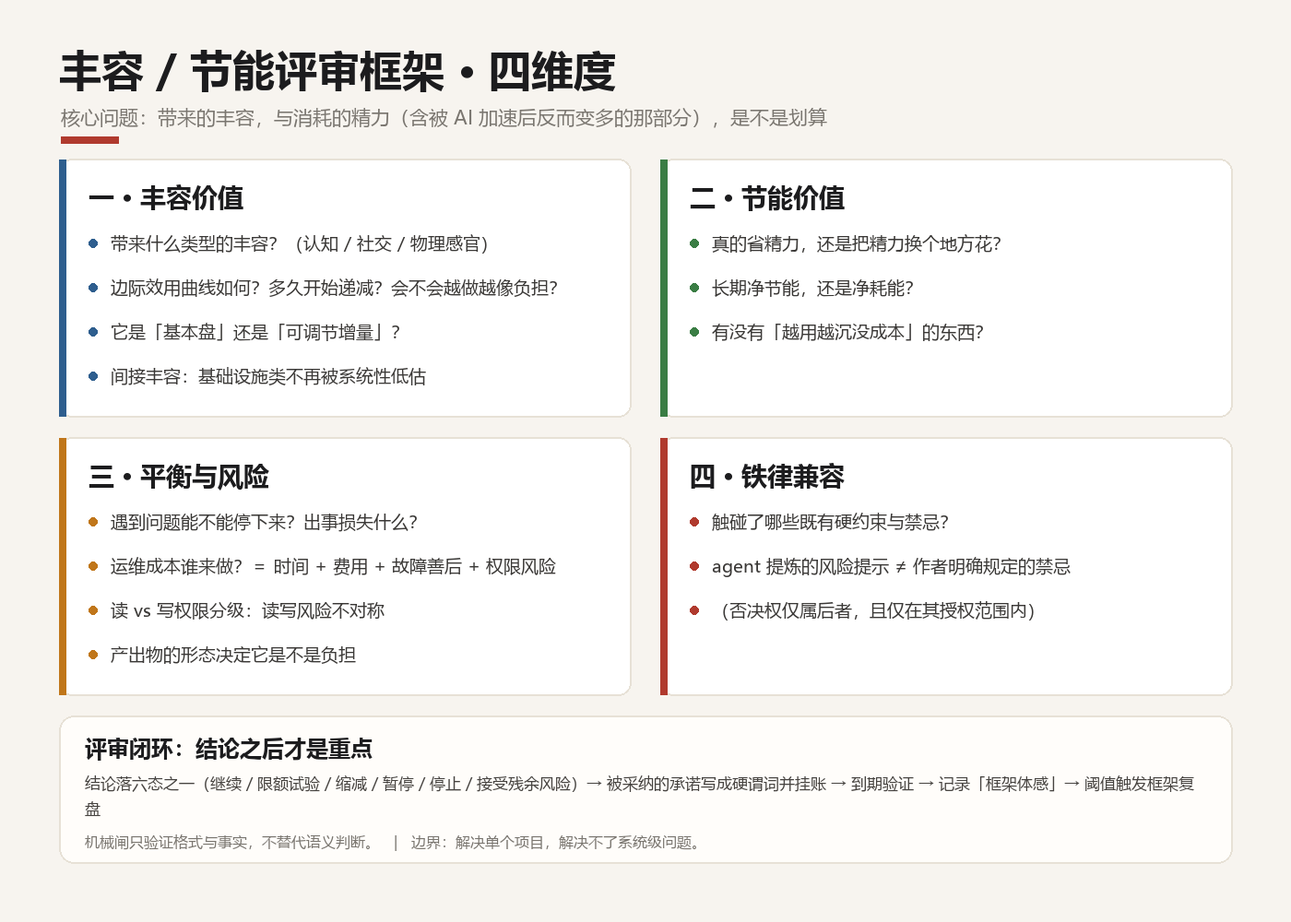
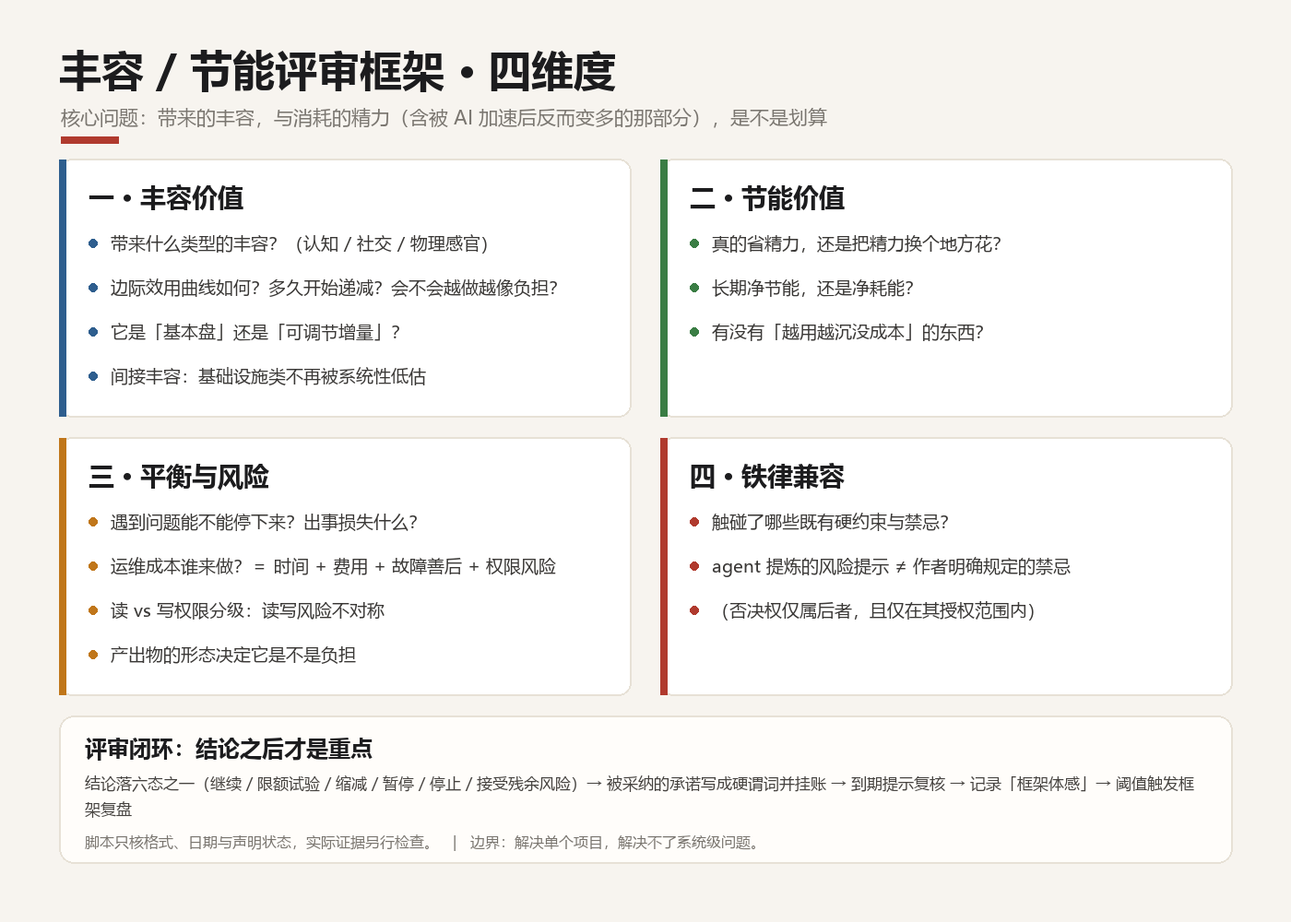
v1.13.1 修订：修正闸误判并统一证据核验边界

Changed region(s): [[0.0614, 0.868, 0.5836, 0.93], [0.6757, 0.837, 0.9214, 0.868]]

diff --git a/skill/scripts/fengneng_review_followup.py b/skill/scripts/fengneng_review_followup.py
@@ -6,7 +6,8 @@
 
 基于控制论闭环模型（setpoint=评审条件硬谓词、sensor=本脚本）：
   - 只有「被采纳的承诺」才应写成条件（v1.7）
-  - Type A（客观可检查）由本脚本自动验证；Type A 证据不得替代 Type B 价值判断
+  - 本脚本只读取 Type A/B 条件的截止日期与显式状态；实际证据须另行执行对应检查
+  - Type A 证据不得替代 Type B 价值判断
   - Type B（需人类判断）到期只提醒作者判断
   - Surface 动作：到期未完成时停止+报告+等指示，不自动重试/降级；
     作者的合法处置含延期/放弃/修正条件/停止追踪（停止追踪=正式结束）
@@ -45,7 +46,8 @@ DEFAULT_LOG = Path.cwd() / "REVIEW_LOG.md"
 PROJECT_ROOT = None
 
 REVIEW_HEADER = re.compile(r"^#{2,3}\s+评审[：:]", re.M)
-CONDITIONAL_MARK = "⚠"
+CONCLUSION_LINE = re.compile(r"\*\*结论\*\*(?:[（(][^）)]*[）)])?[：:][ \t]*([^\n]*)")
+CONDITIONAL_CONCLUSION = re.compile(r"^⚠\s*有条件过(?=$|[\s（(，,。；;])")
 
 # 新建目录未评审检测的豁免名单：这些一级目录不是"个人项目/事务"，不需要丰容评审
 #  - 系统/工具目录：.netlify/.qoder/.wrangler/.agents/.private 等
@@ -112,6 +114,12 @@ def split_reviews(text):
     return reviews
 
 
+def is_conditional_review(body):
+    """只按结论字段识别有条件过；正文其他位置的 ⚠ 不改变评审结论。"""
+    match = CONCLUSION_LINE.search(body)
+    return bool(match and CONDITIONAL_CONCLUSION.match(match.group(1).strip()))
+
+
 def parse_conditions(body):
     """从评审条目中解析条件列表，返回 [(condition_id, type, deadline, desc, done)]。"""
     conditions = []
@@ -137,7 +145,7 @@ def check_review(header, body, today):
     warns = []
     infos = []
 
-    if CONDITIONAL_MARK not in body:
+    if not is_conditional_review(body):
         return blocks, warns, infos
 
     # 闭环状态（v1.7 复核修订：条目级终态控制跟踪——stopped/closed/not-applicable ⇒ 整条不再追踪，
@@ -379,7 +387,7 @@ def run(log_path, today=None, project_root=None):
         )
 
     for header, body in reviews:
-        if CONDITIONAL_MARK not in body:
+        if not is_conditional_review(body):
             continue
         conditional_count += 1
         b, w, i = check_review(header, body, today)
@@ -538,6 +546,17 @@ def selftest():
     b, w, i, cnt = run_fixture(fixture4, today)
     if cnt != 0:
         failures.append(f"夹具4：期望0个有条件过，实际{cnt}")
+
+    # 夹具4b：结论为✅过，建议中的⚠和过期条件文本不得把条目改成有条件过
+    fixture4b = """### 评审：通过但有提醒（2026-10-14）
+
+**结论**：✅ 过
+**建议**：⚠ 这只是提醒，不是评审条件
+- C1（Type A，截止2026-10-10）：不应被追踪的历史文本
+"""
+    b, w, i, cnt = run_fixture(fixture4b, today)
+    if cnt != 0 or b or w or i:
+        failures.append(f"夹具4b：期望0个有条件过且无告警，实际cnt={cnt} b={b} w={w} i={i}")
 
     # 夹具5：旧格式（有条件过但无硬谓词）→ WARN
     fixture5 = """### 评审：旧格式项目（2026-10-12）
@@ -780,7 +799,7 @@ def selftest():
         for f in failures:
             print(f"  - {f}")
         return 1
-    print(f"✅ 自检通过（14项条件夹具 + 4组复盘触发夹具全部通过）")
+    print("✅ 自检通过（15项条件夹具 + 4组复盘触发夹具全部通过）")
     return 0
 
 
@@ -790,7 +809,7 @@ def run_fixture(text, today):
     all_blocks, all_warns, all_infos = [], [], []
     conditional_count = 0
     for header, body in reviews:
-        if CONDITIONAL_MARK not in body:
+        if not is_conditional_review(body):
             continue
         conditional_count += 1
         b, w, i = check_review(header, body, today)
@@ -866,13 +885,13 @@ def main():
         print()
 
     if not blocks and not warns and not infos:
-        print("✅ 所有评审条件/待办均已完成或无截止日期约束")
+        print("✅ 没有需要提示的到期条件/待办")
 
     if blocks:
-        print(f"❌ 有 {len(blocks)} 个条件/待办已过期未完成 → 退出码1（报告级标红，不阻断受控动作；需 Surface 给作者）")
+        print(f"❌ 有 {len(blocks)} 个条件/待办已到期且未声明完成或停止 → 退出码1（提示另行核证据，不阻断受控动作）")
         sys.exit(1)
     else:
-        print("✅ 无过期未完成条件/待办 → 退出码0")
+        print("✅ 无已到期且未声明完成或停止的条件/待办 → 退出码0")
         sys.exit(0)
 
 

diff --git a/scripts/gen_images.py b/scripts/gen_images.py
@@ -253,7 +253,7 @@ def gen_matrix(out):
     y2 = by + 62
     for ln in wrap(
         d,
-        "结论落六态之一（继续 / 限额试验 / 缩减 / 暂停 / 停止 / 接受残余风险）→ 被采纳的承诺写成硬谓词并挂账 → 到期验证 → 记录「框架体感」→ 阈值触发框架复盘",
+        "结论落六态之一（继续 / 限额试验 / 缩减 / 暂停 / 停止 / 接受残余风险）→ 被采纳的承诺写成硬谓词并挂账 → 到期提示复核 → 记录「框架体感」→ 阈值触发框架复盘",
         font(17),
         W - 190,
     ):
@@ -261,7 +261,7 @@ def gen_matrix(out):
         y2 += 28
     d.text(
         (92, y2 + 8),
-        "机械闸只验证格式与事实，不替代语义判断。   |   边界：解决单个项目，解决不了系统级问题。",
+        "脚本只核格式、日期与声明状态，实际证据另行检查。   |   边界：解决单个项目，解决不了系统级问题。",
         font=font(16),
         fill=SUB,
     )

diff --git a/skill/SKILL.md b/skill/SKILL.md
@@ -2,7 +2,7 @@
 name: fengneng-review
 description: >
   丰容/节能项目评审框架（v1.13，使用中迭代）。触发词：丰容评审、新项目过一下、这个项目要不要做、项目评审、丰能评审。
-  新开个人项目或重大功能时过四维度检查清单（丰容价值/节能价值/平衡与风险/铁律兼容），评审前先做项目类型判断+现有产物核查+业界最佳实践核查（人-系统/人-AI协作二分仅作检索线索），输出过/有条件过/不过+矩阵定位+风险点+建议（强建议须带因果链）。评审的终点=当前决策有充分证据（六态：继续/限额试验/缩减/暂停/停止/接受残余风险）；仅被采纳的承诺写成硬谓词挂待办追踪库跟踪，机械闸定期验证（SURFACE报告级不阻断受控动作），到期Surface等作者拍板（含停止追踪合法终态）。四条铁律=agent提炼护栏，作场景化风险提示，否决权仅属作者明确禁忌的授权范围。每次评审后记录框架体感用于迭代，复盘触发（新增≥5或同类体感≥2条）由机械闸判定。
+  新开个人项目或重大功能时过四维度检查清单（丰容价值/节能价值/平衡与风险/铁律兼容），评审前先做项目类型判断+现有产物核查+业界最佳实践核查（人-系统/人-AI协作二分仅作检索线索），输出过/有条件过/不过+矩阵定位+风险点+建议（强建议须带因果链）。评审的终点=当前决策有充分证据（六态：继续/限额试验/缩减/暂停/停止/接受残余风险）；仅被采纳的承诺写成硬谓词挂待办追踪库跟踪，配套脚本定期扫描日期与声明状态（SURFACE报告级不阻断受控动作），实际证据另行核验，到期Surface等作者拍板（含停止追踪合法终态）。四条铁律=agent提炼护栏，作场景化风险提示，否决权仅属作者明确禁忌的授权范围。每次评审后记录框架体感用于迭代，复盘触发（新增≥5或同类体感≥2条）由机械闸判定。
 ---
 
 # 丰容/节能项目评审框架
@@ -121,7 +121,7 @@ description: >
 >
 > 依据：某字幕生产场景的评审体感——"不做真分词"不是"没做完"，而是"够用"的正式终态；若只有"过/不过"两分法，这种状态会被迫写成"有条件过 + 造一条待办"，反而制造假债。
 
-> 矩阵定位是四维度评分的快速索引——用户一眼看到项目落哪个象限，比读四行维度评分效率高。完整矩阵可视化 = `docs/丰容节能矩阵.html`（2×2+1结构，中间区超3个项目时考虑升级3×3）。
+> 矩阵定位是四维度评分的快速索引——用户一眼看到项目落哪个象限，比读四行维度评分效率高。随包图示见 [`../docs/four-dimensions.png`](../docs/four-dimensions.png)；矩阵只作导航，不作结论依据。
 
 ### 建议的三档强度（v1.1 明确）
 
@@ -149,7 +149,7 @@ description: >
 3. **业界最佳实践核查（强制步骤，v1.4 新增，v1.5 扩展）**：评审中涉及**量化阈值、指标选择、方法论选型、闭环机制设计**时，先查业界有没有成熟的最佳实践——
    - **先判断场景属于哪种模式**（v1.5 新增，两种模式的最佳实践不同，不能混用）：
      - **人-系统模式**：人评审、人追踪、人验证（如安全审计POA&M、技术债务管理、项目管理）。最佳实践来源：NIST/CMS POA&M、软件工程技术债务管理、PMI项目管理。核心设计前提=防止人偷懒/忘记，所以流程重、需要named owner和固定节奏。
-     - **人-AI协作模式**：AI评审、AI追踪、机械闸验证、人只做决策（如本框架的评审闭环）。最佳实践来源：agent loop 验证、Claude Code/Codex 社区实践。核心设计前提=防止AI自己骗自己（maker≠checker），所以需要独立验证者和机器可检查的成功条件。
+     - **人-AI协作模式**：AI评审、AI追踪、明确的机械检查、人只做决策（如本框架的评审闭环）。最佳实践来源：agent loop 验证、Claude Code/Codex 社区实践。核心设计前提=防止AI自己骗自己（maker≠checker），所以需要独立验证者和机器可检查的成功条件。
      - ⚠ **v1.7：该二分是检索线索，不是穷尽分类**——两类风险（人会忘/会偷懒、AI 会自证）可同时存在于同一机制；引用时按风险点分别取径，不按标签站队。v1.5 所引"Loop Engineering 共识"表述未经独立核验，已弱化，不作权威依据。
    - 有公信力 benchmark / 行业标准 / 学术研究结论 → 直接拿过来用，注明来源和适用条件
    - 没有 → 从仓内历史数据中提炼（参考「参数基准表」），或先开数据收集再定阈值，**不现场拍脑袋**
@@ -185,7 +185,7 @@ description: >
 | Setpoint（目标值） | 评审结论中被采纳的承诺——写成硬谓词（Type A 机器可检查；Type B 有明确评价对象和证据形式的人类判断） |
 | Controller（控制器） | AI（主笔 agent），执行后续动作 |
 | Plant（被控对象） | 被评审的项目/机制 |
-| Sensor+Comparator（传感器+比较器） | 机械闸（`scripts/fengneng_review_followup.py`），验证条件是否满足 |
+| Sensor+Comparator（传感器+比较器） | 配套脚本读取条件的截止日期与显式状态，提示该复核什么；实际证据由对应检查或人另行核验 |
 | 收敛条件 | 六态终态决策 → 归档——继续/限额试验 = 承诺落地后归档；停止/缩减/暂停/接受残余风险可随时结束未履行承诺，无需先全部落地（不一律重评） |
 
 ### 闭环的两个必要条件（来自 Loop Engineering）
@@ -199,7 +199,7 @@ description: >
 - **截止日期**（YYYY-MM-DD，不能是"尽快""以后"；禁止"持续项"式无截止条件——那是开放式跟踪的坏样本）
 - **可检查的完成标准**（Type A：文件存在否、脚本跑通否、待办追踪状态否——必须能用 grep/ls/exit code 判定；Type B：写明**评价对象与证据形式**，由人判定，不伪装成机器谓词）。写法 = **语义 + 具体定位器**，**禁裸字符串 grep**（反面教材：某交易域 SOP C1 的"无操作日不推送"字面串——实现换位置即出现"闸查不到、实质已达成"的假 BLOCK/假核销，评审记录台账 2026-10-15 交易条目已留痕）
 - **「证明什么」标注**（v1.7 新增）：本条件证明的是实现存在/运行事实，还是结果/价值；Type A 证据不得替代 Type B 结论
-- **验证方式**（Type A 机械闸自动查 / Type B 需作者判断）
+- **验证方式**（Type A 须写明要执行的机械检查并由对应工具实际运行 / Type B 需作者判断；配套追踪脚本只核日期与声明状态）
 
 反面例子（不可检查）：
 - "改善用户体验"
@@ -215,7 +215,7 @@ description: >
 
 | 类型 | 定义 | 验证方式 |
 |---|---|---|
-| **Type A** | 完全可自动化的机械检查（文件存在、脚本exit code、git提交频率、待办追踪状态、截止日期是否到期） | 机械闸自动验证，不需要人 |
+| **Type A** | 可交给明确工具执行的机械检查（文件存在、脚本 exit code、Git 提交数、待办状态、日期等） | 由条件指定的检查实际执行；配套追踪脚本本身只核日期与声明状态，不代替这些检查 |
 | **Type B** | 人类判断门（项目丰容价值是否真的提升、是否真的没有退化、主观质量判断） | 必须作者批准，AI不能自己关账 |
 
 闭环的工作 = **自动化 Type A 到底 + 可靠地把 Type B 路由给作者**。⚠ Type A 全绿 ≠ 项目达标——Type A 只验实现/运行事实，价值判断永远在 Type B 侧。**单次成功与可靠性分离（v1.13）**：单次成功只证明发生过；概率性或无人值守机制需要可靠性结论时，须重复运行并报告次数 n 与失败数，样本不足标「待验证」，不写「稳定/可靠」。次数按风险与成本定，不设统一 k，不强制统计模型。
@@ -232,10 +232,10 @@ description: >
     ↓
 仅「被采纳的承诺」改写为硬谓词 → 挂 TRACKING.md（待办追踪）（同一真实决策复用一个记录，条件按风险合并，不一条件一文件）
     ↓
-机械闸定期扫描（接入 （收尾体检脚本，本包未附带） §5）
-    ├─ 条件未到期 → 静默，不打扰
-    ├─ 条件到期且满足 → 标记待确认（不自动归档）
-    ├─ 条件到期未完成 → Surface（报告级，见下）
+配套脚本定期扫描日期与显式状态（接入 （收尾体检脚本，本包未附带） §5）
+    ├─ 条件未到期且未声明终态 → 静默，不打扰
+    ├─ 已显式声明完成/停止 → 记录状态，不把声明当作证据已核
+    ├─ 已到期且未声明完成/停止 → Surface，提示另行核证据（报告级，见下）
     └─ Type B 条件到期 → 提醒作者判断
     ↓
 终态（六选一）：继续 / 限额试验 / 缩减 / 暂停 / 停止（显式停止追踪 = 合法结束）/ 接受残余风险
@@ -245,9 +245,9 @@ description: >
 归档（待办追踪库移入 archive 区，评审记录台账追加记录；停止/缩减/接受残余风险均为正式归档理由）
 ```
 
-### Surface 动作（条件到期未完成时）
+### Surface 动作（条件到期且未声明完成或停止时）
 
-当机械闸发现条件到期未完成时，AI 的动作有精确名称：**Surface**——
+当配套脚本发现条件已到期、且未显式声明完成或停止时，AI 的动作有精确名称：**Surface**——它提示该核证据了，不自行断言条件尚未满足：
 - 停止当前循环
 - 发出简短情况描述（哪个条件、到期多久、尝试过什么、当前状态）
 - **等待作者指示**

diff --git a/.github/release-notes/v1.13.1.md b/.github/release-notes/v1.13.1.md
@@ -1,0 +1,53 @@
+# v1.13.1 · 丰容/节能评审框架
+
+> **不是给答案，是帮你把依据和未知分开。**
+>
+> 规则版仍为 v1.13；v1.13.1 是公开包的代码、文档与发布修订号。
+
+## 这次修订包含什么
+
+- 修复结论字段的前缀误判：`✅ 过去`、`❌ 不过去` 不再被当成合法结论。
+- 闭环扫描只按结论字段识别“有条件过”，不再被正文其他位置的警示符号误导。
+- 两条脚本补充正反之例与真实 CLI 端到端自检，并消除 Python 转义警告。
+- 统一文档与脚本的真实能力边界：配套脚本只核格式、日期与显式声明状态；实际证据另行检查，价值判断仍由人做。
+- 修正本地图示链接、原创性历史注记、规则版与公开发布版的区分，以及 Release 更新的覆盖范围说明。
+
+## 框架包含什么
+
+| | 内容 |
+|---|---|
+| **给 agent 的** | `skill/`：SKILL.md、设计沿革与两支配套检查脚本 |
+| **给人的** | `human/为什么需要这套框架.md`：来历、四维度、评审闭环与边界 |
+| **图示** | `docs/`：封面、四维度、评审闭环、证据纪律 |
+| **沿革** | `CHANGELOG.md` 与 `skill/references/HISTORY.md` |
+
+## 四维度与闭环
+
+1. **丰容价值**：带来什么认知、社交或物理感官的丰富度？边际效用如何？
+2. **节能价值**：长期净节能还是净耗能？运维、纠错、监督与学习成本是否计入？
+3. **平衡与风险**：能否暂停或退出？读写权限、内容敏感度与证据验证如何安排？
+4. **铁律兼容**：哪些是场景化风险提示，哪些才是作者明确规定的禁忌？
+
+评审结论落在继续、限额试验、缩减、暂停、停止或接受残余风险之一；只有被采纳的承诺才进入追踪。
+
+> **脚本边界**：配套脚本核对字段格式、截止日期和显式状态标记，不执行条件所描述的证据检查，也不判断项目价值。“该复核了”不等于“已经核过”。
+
+## 怎么用
+
+```bash
+git clone https://github.com/yunfy1990/fengneng-review.git
+cp -r fengneng-review/skill ~/.claude/skills/fengneng-review
+python -X utf8 ~/.claude/skills/fengneng-review/scripts/fengneng_review_lint.py --selftest
+python -X utf8 ~/.claude/skills/fengneng-review/scripts/fengneng_review_followup.py --selftest
+```
+
+人类读者可直接阅读 `human/为什么需要这套框架.md`，按四个维度检查一个具体项目。
+
+## 边界与来源
+
+- 适用于单个项目、产品或重大功能；不提供系统级问题的判据。
+- 框架只产出判断与风险提示，不产出授权。
+- 本框架是在既有材料之上的组合与改造；未找到同一完整组合，不等于首创。
+- 历史脱敏核查只覆盖当前可达历史与已列明的检查规则；旧下载、缓存、fork 或他人已保存副本不在撤回能力之内。
+
+Apache License 2.0。专利授权仅覆盖贡献者可许可的特定权利，不等于对第三方专利的全面免责。

diff --git a/README.md b/README.md
@@ -4,7 +4,7 @@
 
 <p align="center">
   <a href="LICENSE"><img src="https://img.shields.io/badge/license-Apache--2.0-blue.svg" alt="License Apache-2.0"></a>
-  <img src="https://img.shields.io/badge/version-v1.13-crimson.svg" alt="version v1.13">
+  <img src="https://img.shields.io/badge/rules-v1.13-crimson.svg" alt="rules v1.13">
   <img src="https://img.shields.io/badge/entry-human%20%2B%20agent-slategray.svg" alt="human + agent">
   <img src="https://img.shields.io/badge/i18n-%E4%B8%AD%E6%96%87-lightgrey.svg" alt="中文">
   <a href="CHANGELOG.md"><img src="https://img.shields.io/badge/14%20versions-chocolate.svg" alt="14 versions"></a>
@@ -15,6 +15,8 @@
 ---
 
 # fengneng-review
+
+> 规则版：**v1.13**｜公开包修订：**v1.13.1**（代码、文档与发布层修复，不改变规则问法）
 
 > **不是给答案，是帮你把依据和未知分开。**
 >
@@ -73,12 +75,12 @@ python -X utf8 ~/.claude/skills/fengneng-review/scripts/fengneng_review_lint.py 
 1. 结论必须落在六态之一：**继续 / 限额试验 / 缩减 / 暂停 / 停止 / 接受残余风险**；
 2. 只有**被采纳的承诺**才写成**硬谓词**（截止日 + 可检查的完成标准 + 验证方式 + "证明什么"标注）并挂账追踪；
 3. 每次评审记录**框架体感**，累计到阈值触发**框架复盘**，复盘只改问法、不改结论；
-4. **机械闸只验证格式与事实，不替代语义判断**。
+4. **配套脚本只核格式、日期与声明状态，不替代证据核验与价值判断**。
 
-> ⚠ **机械闸的能力边界（请照实理解）**：配套的两个脚本**只做格式与状态判定** ——
-> 格式闸核对字段是否齐备、结论是否在档位内；闭环闸读取**截止日期与状态标记**，判断条件是否逾期。
-> **它们不执行条件所要求的脚本、不核对文件事实、不验证价值判断。**
-> 「条件已到期」只意味着**该核了**，不意味着**核过了**；价值结论仍由人给。
+> ⚠ **机械闸的能力边界（请照实理解）**：格式闸核对字段是否齐备、结论是否在档位内；
+> 闭环闸读取**截止日期与显式状态标记**，判断是否该复核。
+> **它们不执行条件所要求的检查、不核对文件内容或运行结果、不验证价值判断。**
+> 「条件已到期」只意味着**该核了**，不意味着**核过了**；实际证据须另行检查，价值结论仍由人给。
 
 ---
 

diff --git a/skill/references/HISTORY.md b/skill/references/HISTORY.md
@@ -31,4 +31,4 @@
 - v1.3（2026-10-12）：17条评审首次框架复盘后落地6项改进——①新增第0步「项目类型前置判断」（机制/工具/内容/事务/元项目/已完成，不同类型维度权重不同）；②维度一新增「间接丰容」问法（基础设施类不再被系统性低估）；③维度二新增「长期净节能」问法（运动/学习类短期耗能长期节能）；④维度三运维成本加「谁来做」、退出策略/时间预算按类型调整；⑤现有产物核查从评审流程扩展为**所有"提议做新东西"场景的前置动作**；⑥维度四机制类项目权重升高至一票否决级。经A/B验证，17个项目全部有正向影响，2个矩阵定位移动（音频录制/工作室运营从苦修区→中间区）。
 - v1.2（2026-10-12）：使用流程新增第2步「现有产物核查（强制步骤）」——评审前必须先搜 scripts/文档/待办追踪库/calendar/CHANGELOG/实验登记表，把已存在的相关产物列出来，避免把已落地的东西当成待办；输出格式新增「现有产物」字段。缘起：批量评审时把已存在的 voice_metrics_report.py 和 待办追踪库 182 当成了待办，经作者提醒才发现。
 - v1.1（2026-10-12）：①新增「参数基准表」——评审中量化阈值从仓内历史提炼，不现场拍脑袋；②明确建议三档强度（弱/中/强），强建议必须带一句因果链理由，不允许只有结论没有推理。
-- v1（2026-10-12）：初版，四维度=丰容价值/节能价值/平衡与风险/铁律兼容；业界调研确认无成熟现成框架
+- v1（2026-10-12）：初版，四维度=丰容价值/节能价值/平衡与风险/铁律兼容；当时记录为“业界调研确认无成熟现成框架”。**后续更正（2026-11-04）**：该表述过强；现行口径是“在既有材料之上组合与改造，未找到同一完整组合不等于首创”。

diff --git a/CHANGELOG.md b/CHANGELOG.md
@@ -7,7 +7,7 @@
 > 版本号规则：改核心逻辑 / 铁律兼容性 → 升主版本号；错别字、文案、参数微调 → 不升。
 > ⚠ **版本数量不等于有效性**：14 版只说明迭代频繁，不代表框架已被验证有效。
 > 有效性要看它在真实评审里的表现（是否拦下过错误决策、是否制造了额外负担）。
-> 变更记录格式沿用 [Keep a Changelog](https://keepachangelog.com/zh-CN/1.1.0/)，版本号遵循语义化版本。
+> 变更记录格式沿用 [Keep a Changelog](https://keepachangelog.com/zh-CN/1.1.0/)。本文件中的 v1、v1.1…v1.13 是**规则迭代号**，不是语义化版本；公开包的发布修订另用 v1.13.1 这类三段号。
 
 ---
 
@@ -106,4 +106,6 @@
 
 初版。四维度＝丰容价值 / 节能价值 / 平衡与风险 / 铁律兼容。
 
-业界调研确认：**无成熟现成框架可抄**，本框架为原创组合，需在使用中迭代。
+当时记录为：业界调研确认“无成熟现成框架可抄”，本框架为原创组合，需在使用中迭代。
+
+> **后续更正（2026-11-04）**：上述原创性表述过强。现行口径是“在既有材料之上组合与改造；未找到同一完整组合，不等于首创”。保留此条作为历史记录，不再作为现行结论。

diff --git a/human/为什么需要这套框架.md b/human/为什么需要这套框架.md
@@ -131,7 +131,7 @@ AI 产出洞察、你逐条确认 → 这是负担。
    存在性证明不能充当价值结论。这条我吃过亏。
 
 3. **每次评审记录"框架体感"**——这次评审让我觉得哪里别扭。累计到阈值就触发**框架复盘**，复盘只改问法，不改结论。
-4. **机械闸只验证格式与事实，不替代语义判断**。自动脚本能确认字段齐不齐、数值对不对，判断不了"这个项目到底值不值"。
+4. **配套脚本只核格式、日期与声明状态，不替代证据核验与价值判断**。它们能提示字段齐不齐、条件是否到期，却不执行条件所要求的检查，也判断不了"这个项目到底值不值"。
 
 ---
 

diff --git a/.github/release-notes/v1.13.md b/.github/release-notes/v1.13.md
@@ -37,7 +37,7 @@
 1. 结论必须落在六态之一：**继续 / 限额试验 / 缩减 / 暂停 / 停止 / 接受残余风险**；
 2. 只把**被采纳的承诺**写成硬谓词（截止日 + 可检查的完成标准 + 验证方式 + "证明什么"标注）并挂账追踪；
 3. 每次评审记录**框架体感**，累计到阈值触发**框架复盘**，复盘只改问法、不改结论；
-4. **机械闸只验证格式与事实，不替代语义判断**。
+4. **配套脚本只核格式、日期与声明状态；实际证据另行核验，不替代价值判断**。
 
 ## 证据纪律
 
